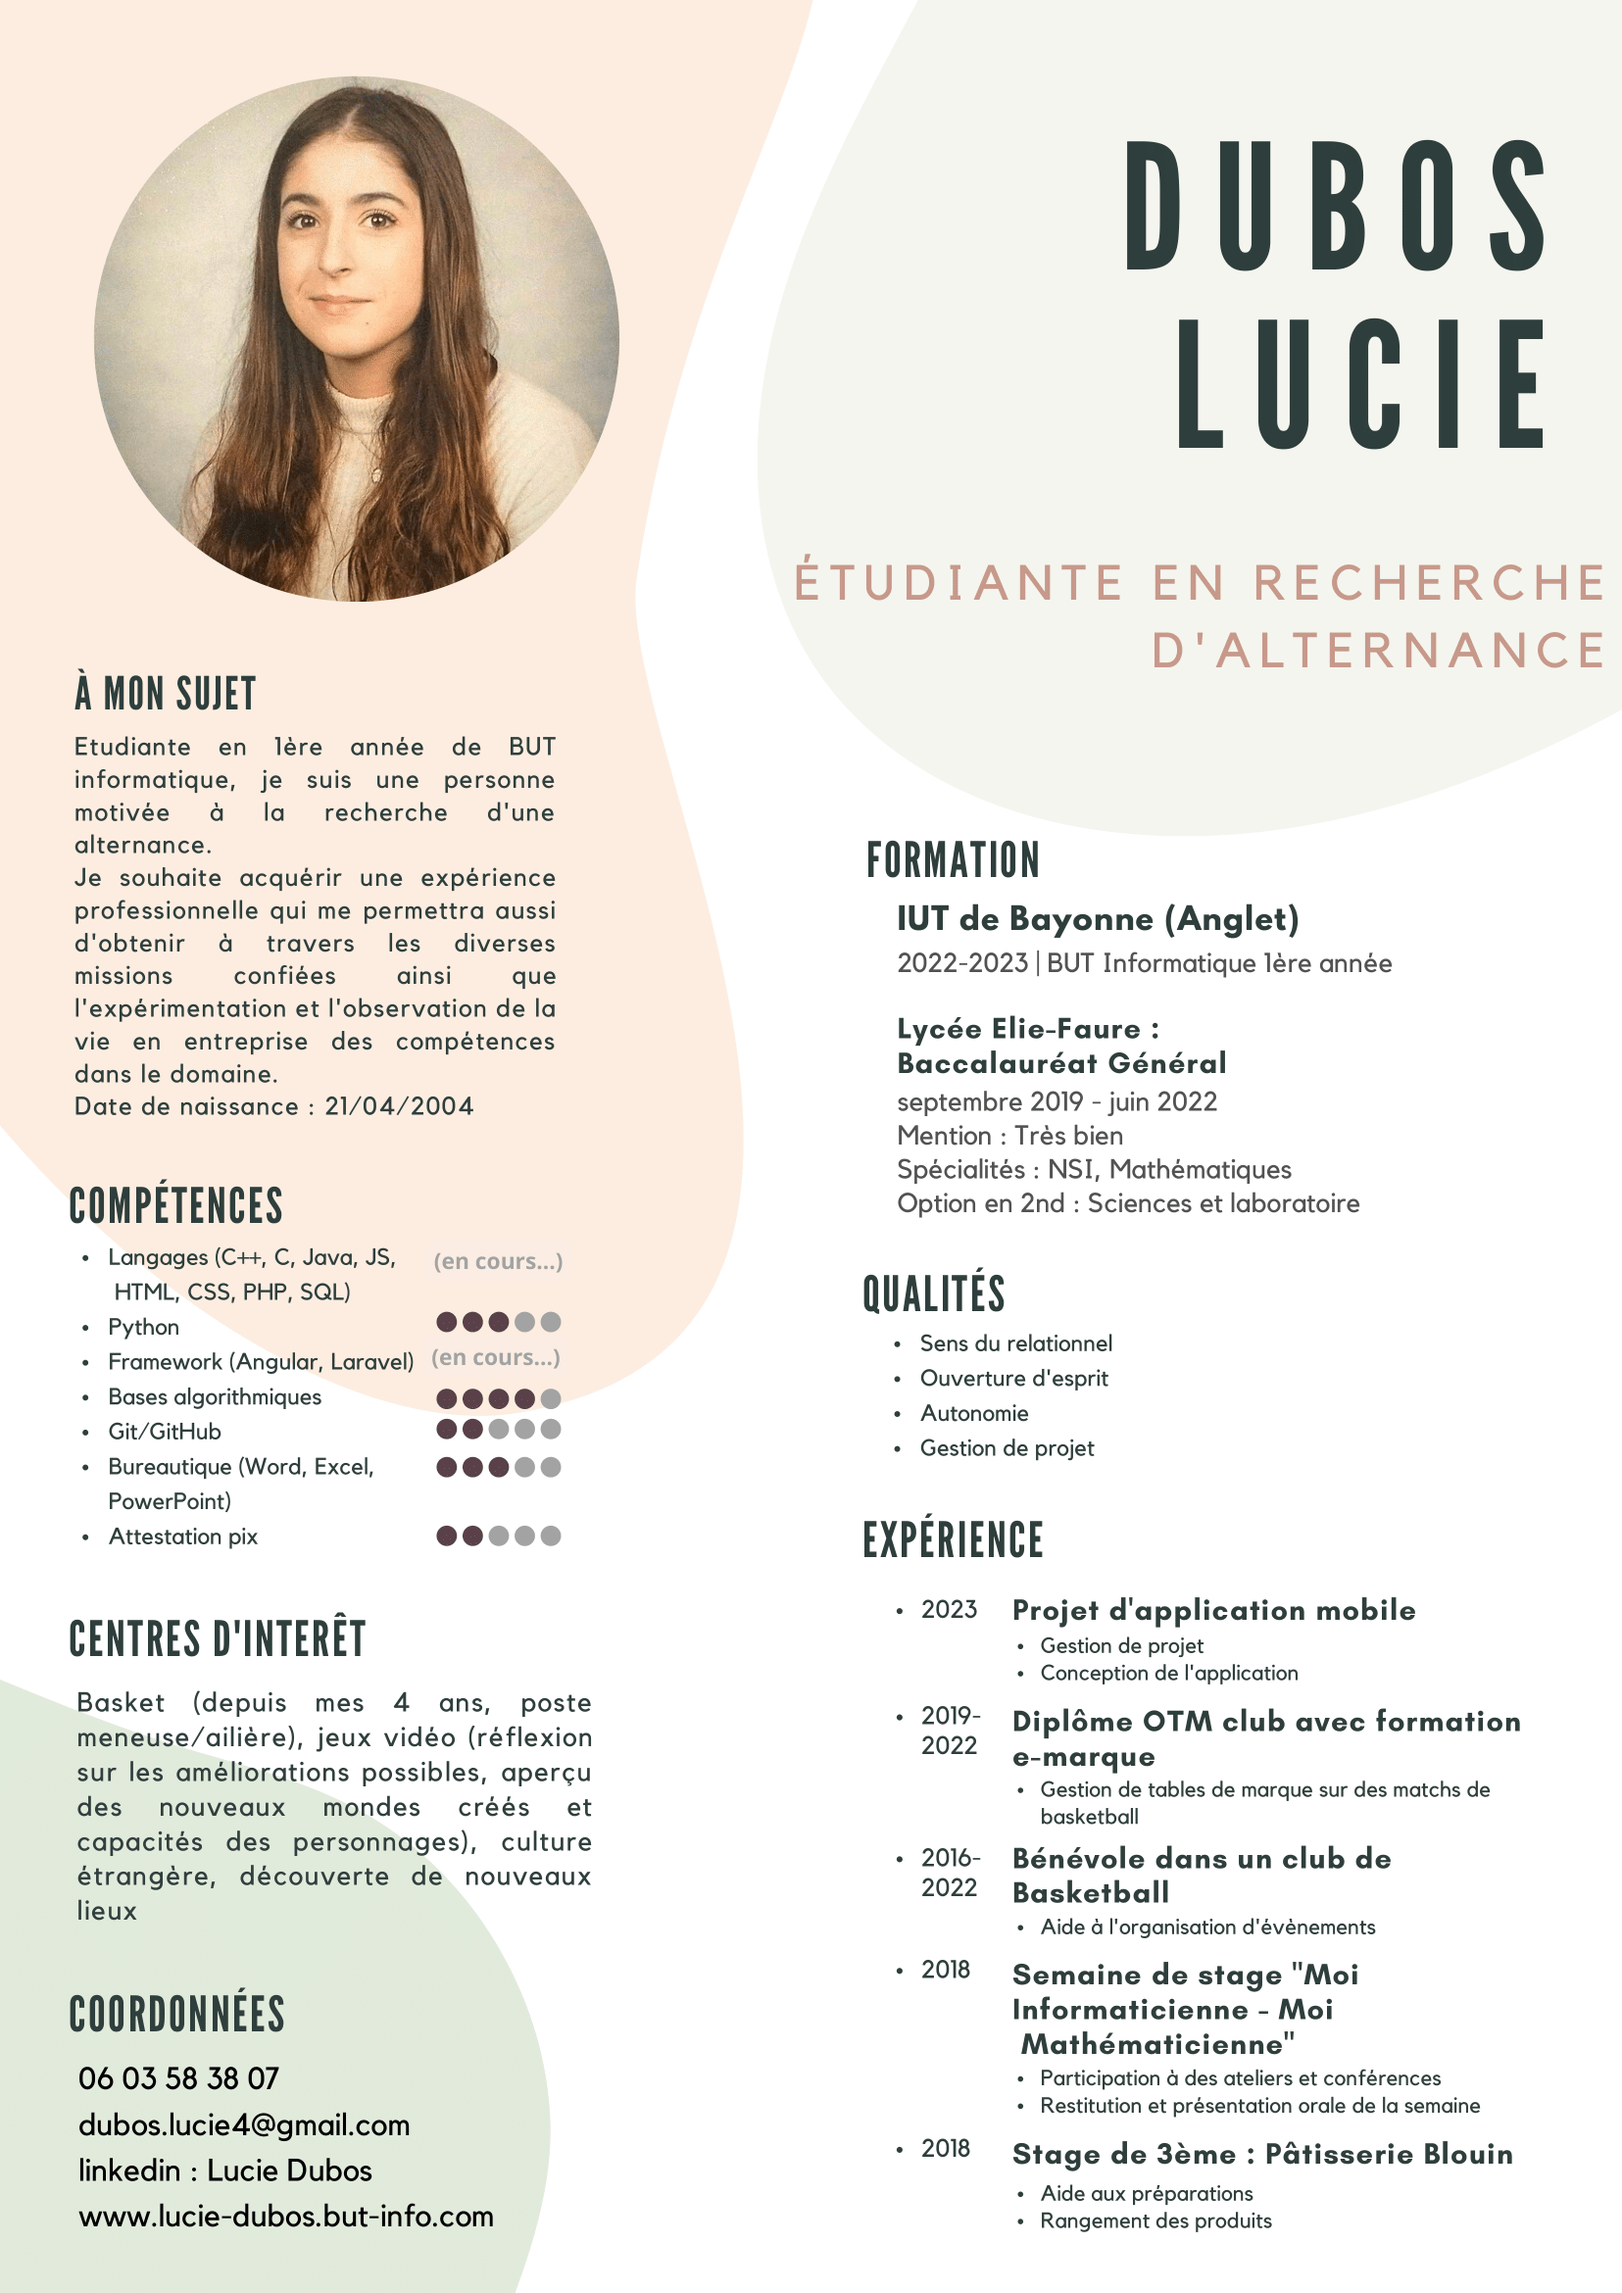
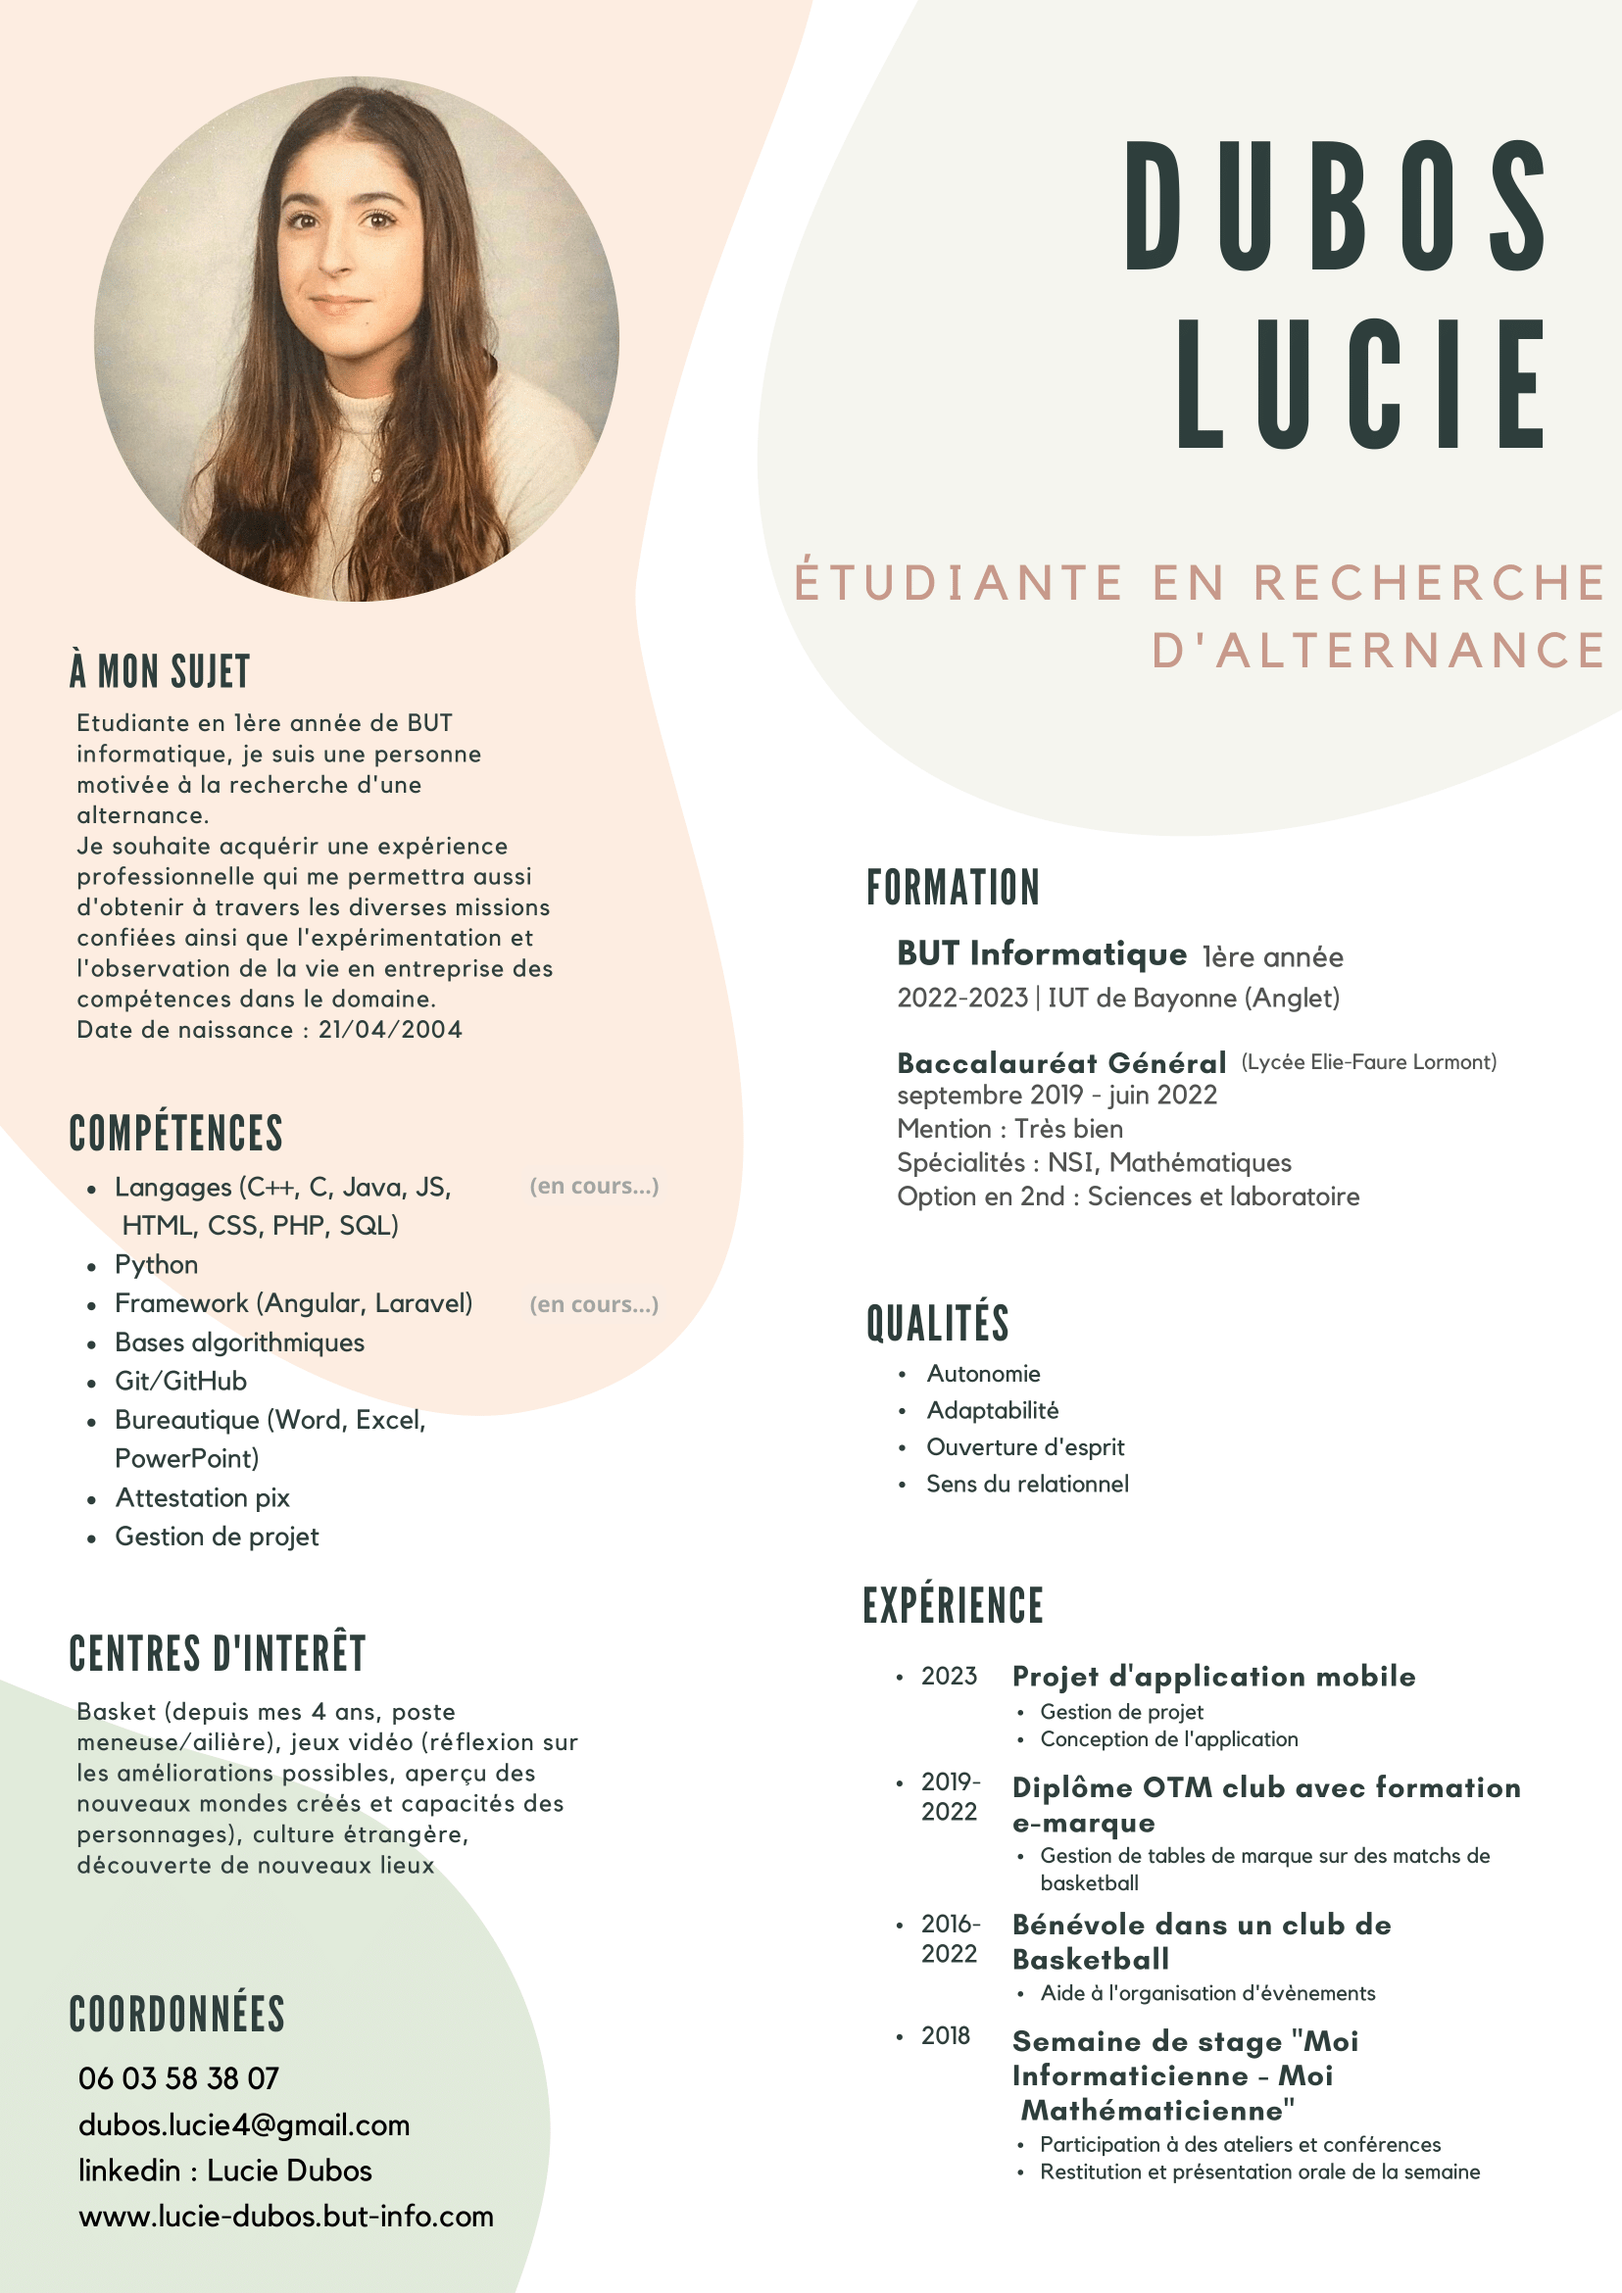
Legere amelioration de l'adaptivité du contenu et maj du cv

Changed region(s): [[0.5239, 0.3432, 0.9245, 0.9671], [0.0308, 0.2808, 0.3698, 0.8423]]

diff --git a/style.css b/style.css
@@ -21,9 +21,12 @@ a{
 
 
 #fondCoul{
+    width: 100%;
+    height: 180vh;
     background-color: #F0F8FF;
-    background-size: auto;
-    background-repeat: repeat-x;
+    background-size: cover;
+    background-position-x: center;
+    background-repeat: no-repeat;
 }
 
 /*liste des éléments du nav*/
@@ -80,7 +83,7 @@ nav ul li a:hover:after{
     line-height: 1.5;
     background-color: transparent;
     border-radius: 30px;
-    background-size: cover;
+    background-size: 100%;
     background-position-x: center;
     background-repeat: no-repeat;
     display: inline-block;

diff --git a/about.html b/about.html
@@ -17,7 +17,7 @@
             </ul>
         </nav>
         <img src="iconeCV.png" alt="icone CV" id="imgCv" /> 
-        <div class="container">
+        <div>
             <img src="CV.png" alt="CV" id="cv" /> 
         </div>
     </div>
